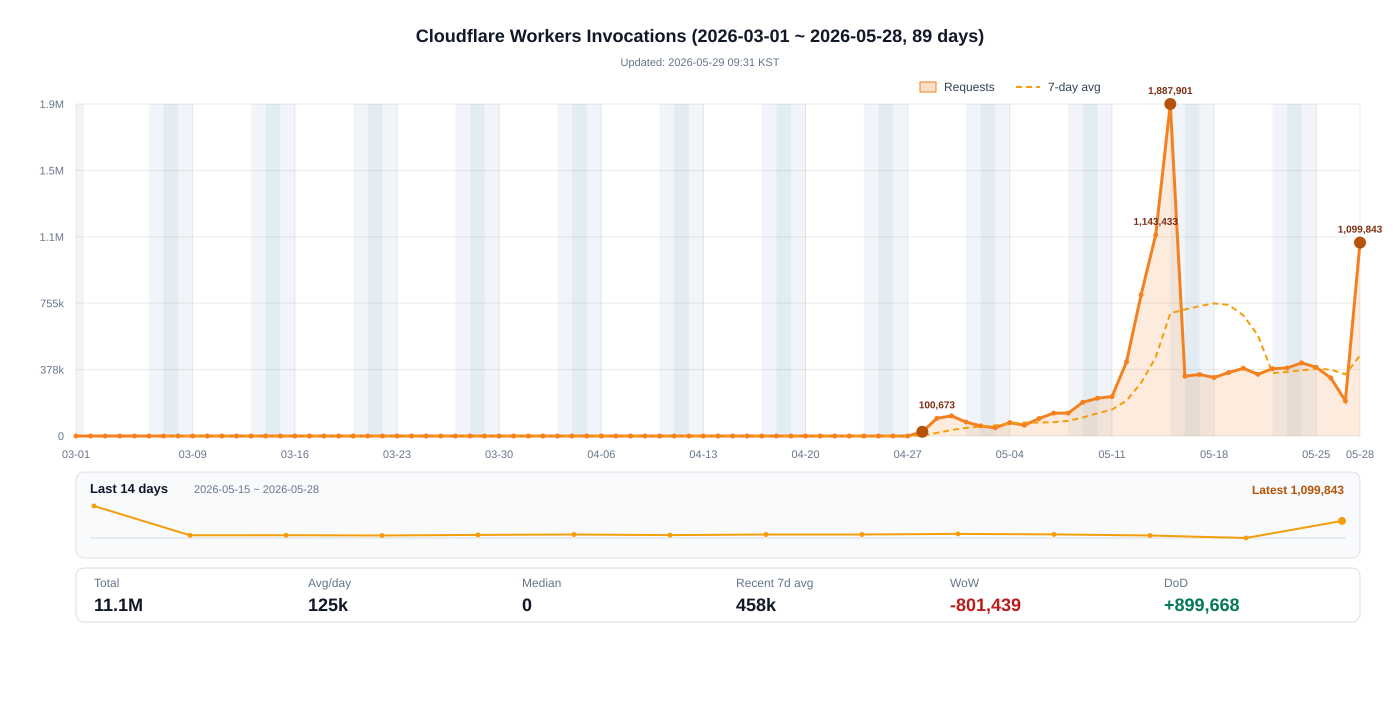
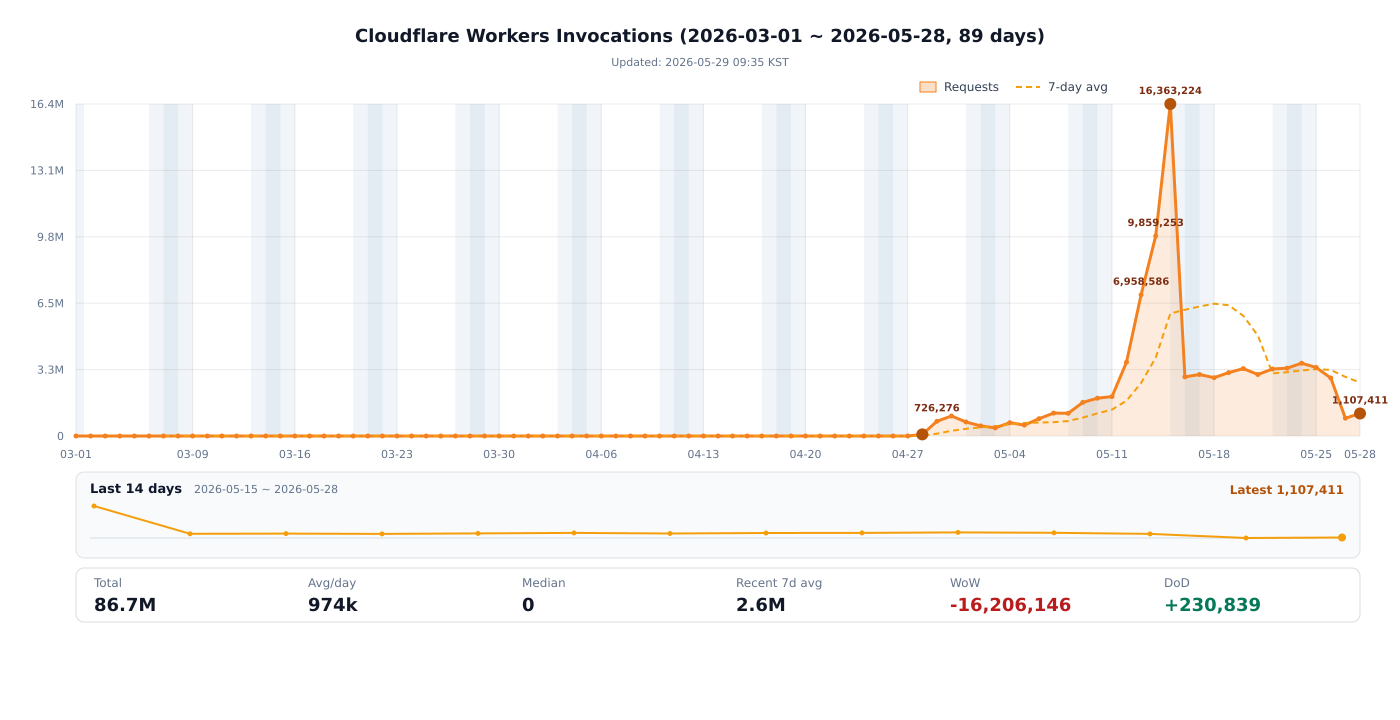
fix: align workers chart with billing totals

diff --git a/scripts/ops/workers-chart-data.ts b/scripts/ops/workers-chart-data.ts
@@ -8,9 +8,6 @@ const WORKER_INVOCATIONS_QUERY = `
           limit: 10000
           filter: { scriptName: $scriptName, datetime_geq: $start, datetime_lt: $end }
         ) {
-          dimensions {
-            datetime
-          }
           sum {
             requests
           }

diff --git a/tests/scripts/workers-chart-data.test.ts b/tests/scripts/workers-chart-data.test.ts
@@ -81,6 +81,7 @@ describe('fetchWorkerInvocationsForWindow', () => {
     const requestBody = JSON.parse(mockFetch.mock.calls[0]?.[1]?.body as string);
     expect(requestBody.query).toContain('workersInvocationsAdaptive');
     expect(requestBody.query).toContain('scriptName: $scriptName');
+    expect(requestBody.query).not.toContain('dimensions');
     expect(requestBody.query).not.toContain('httpRequestsAdaptiveGroups');
   });
 